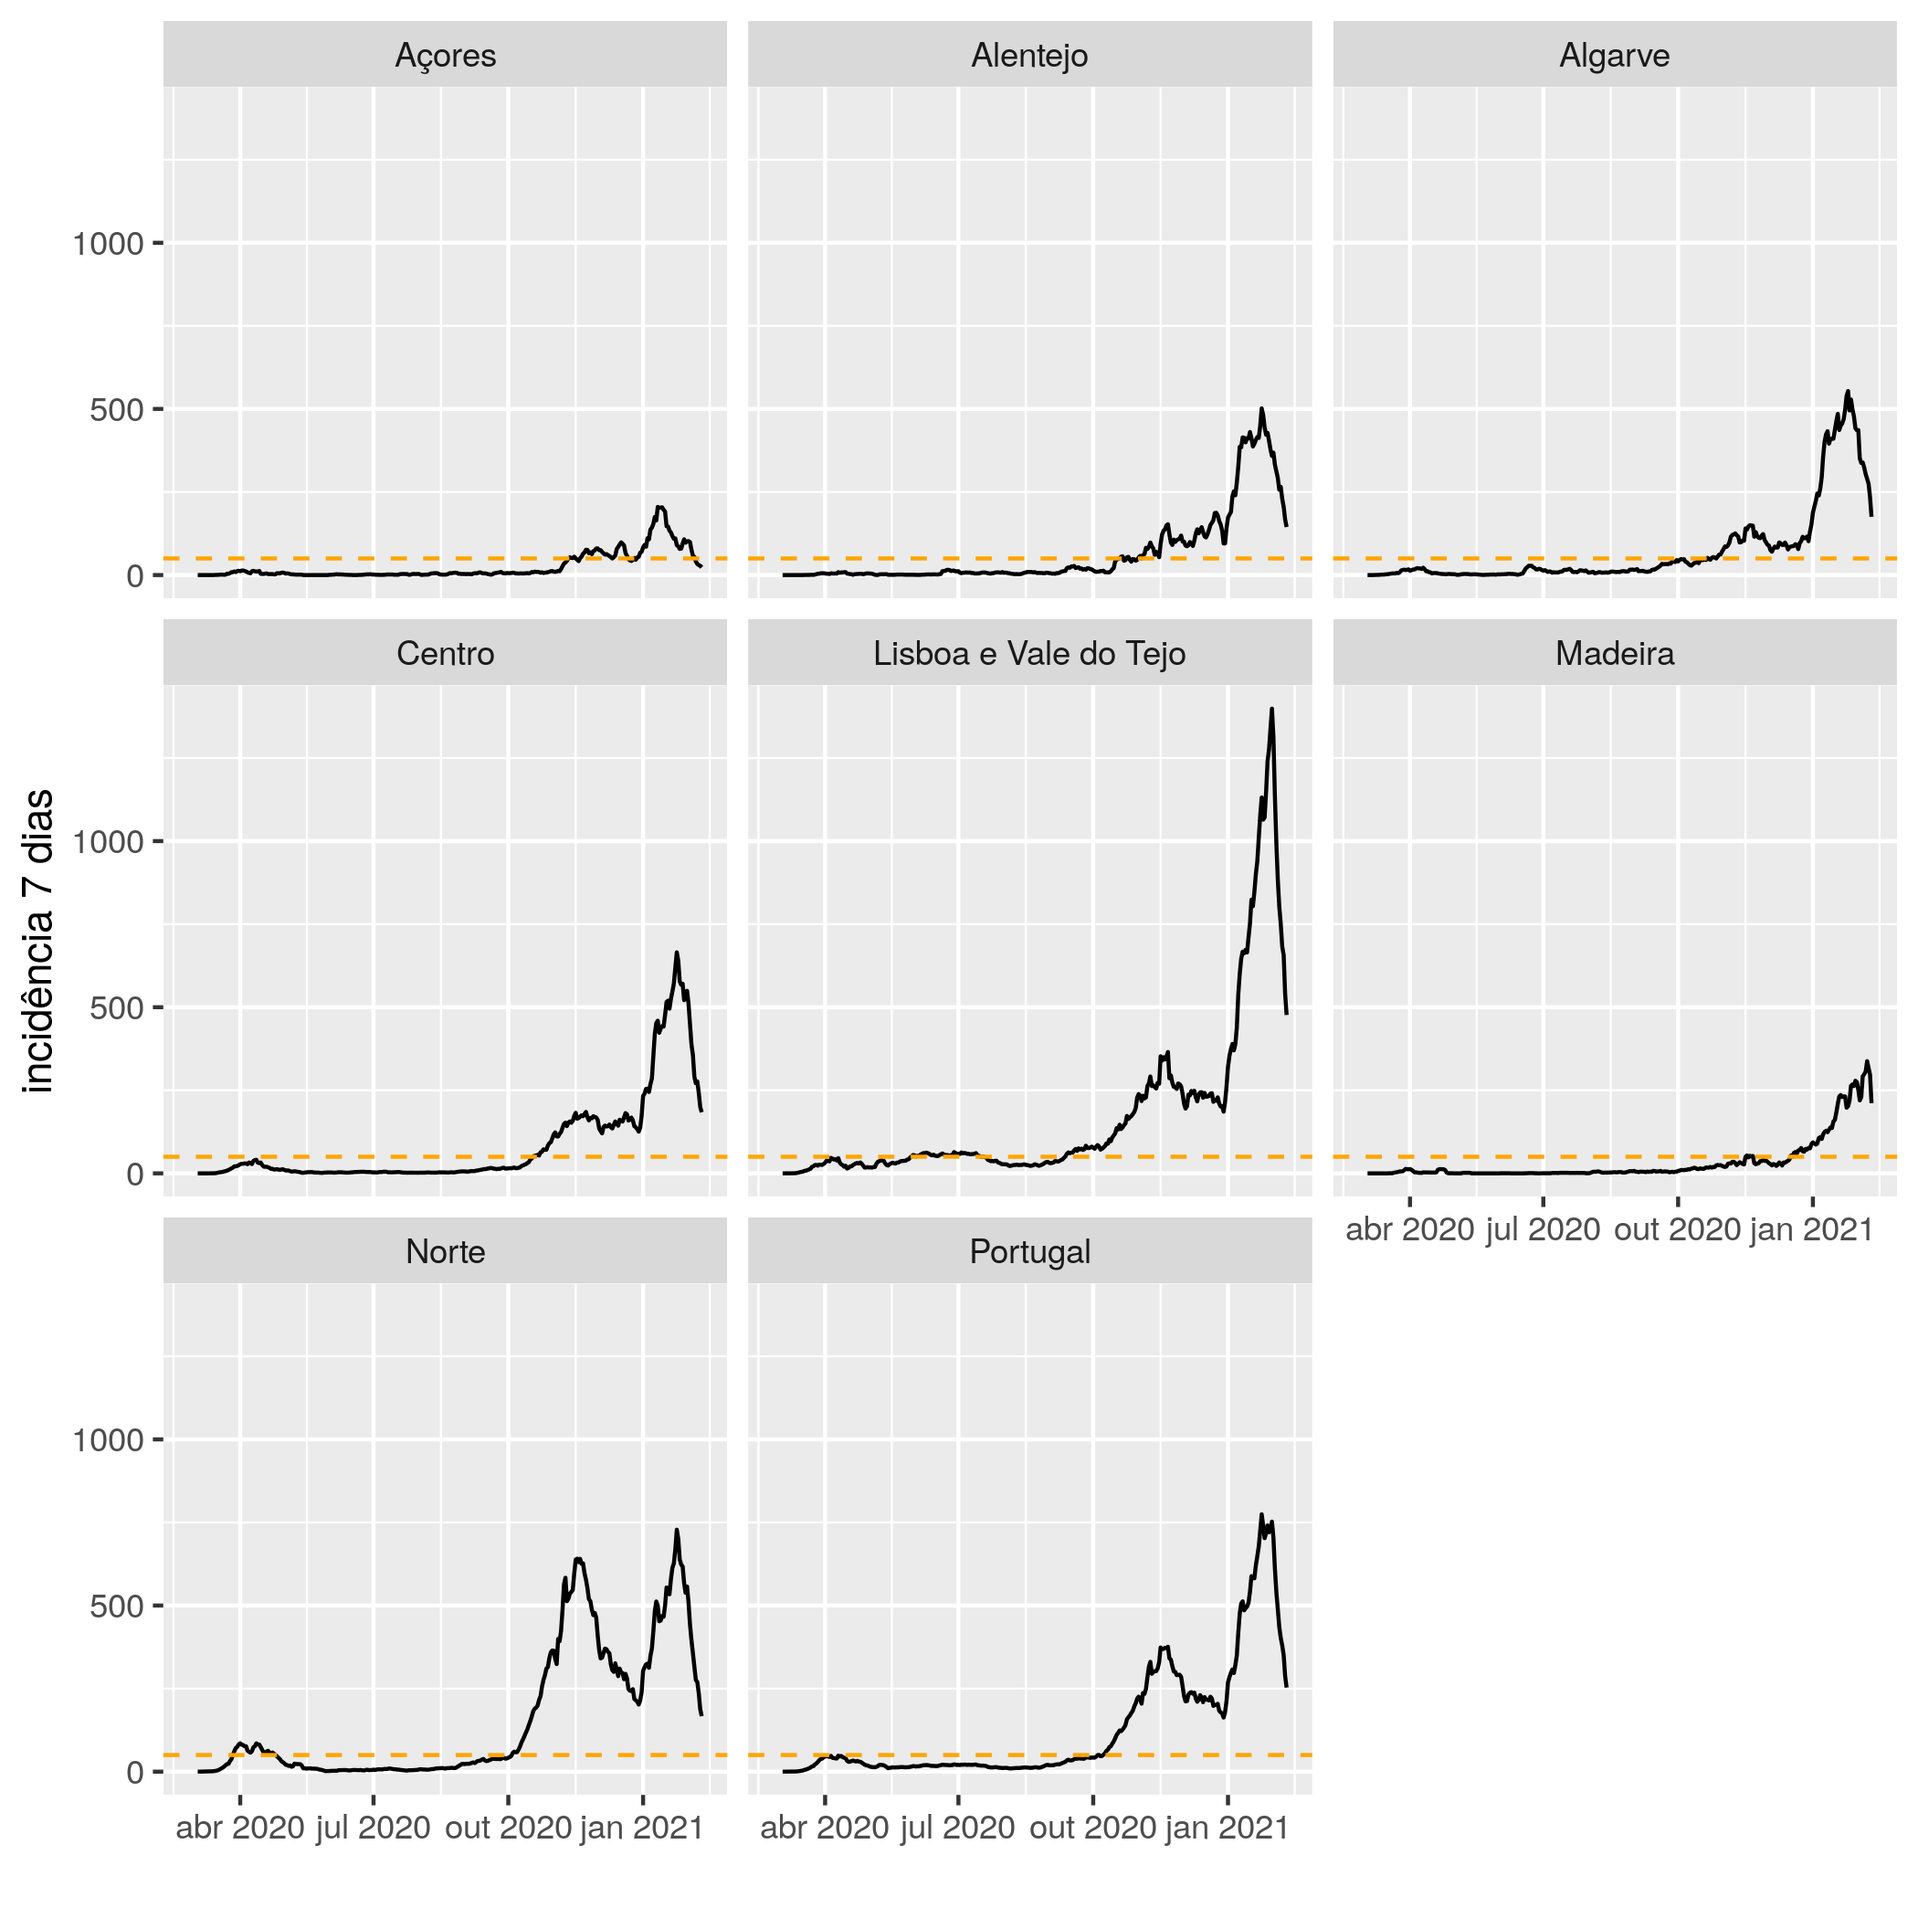
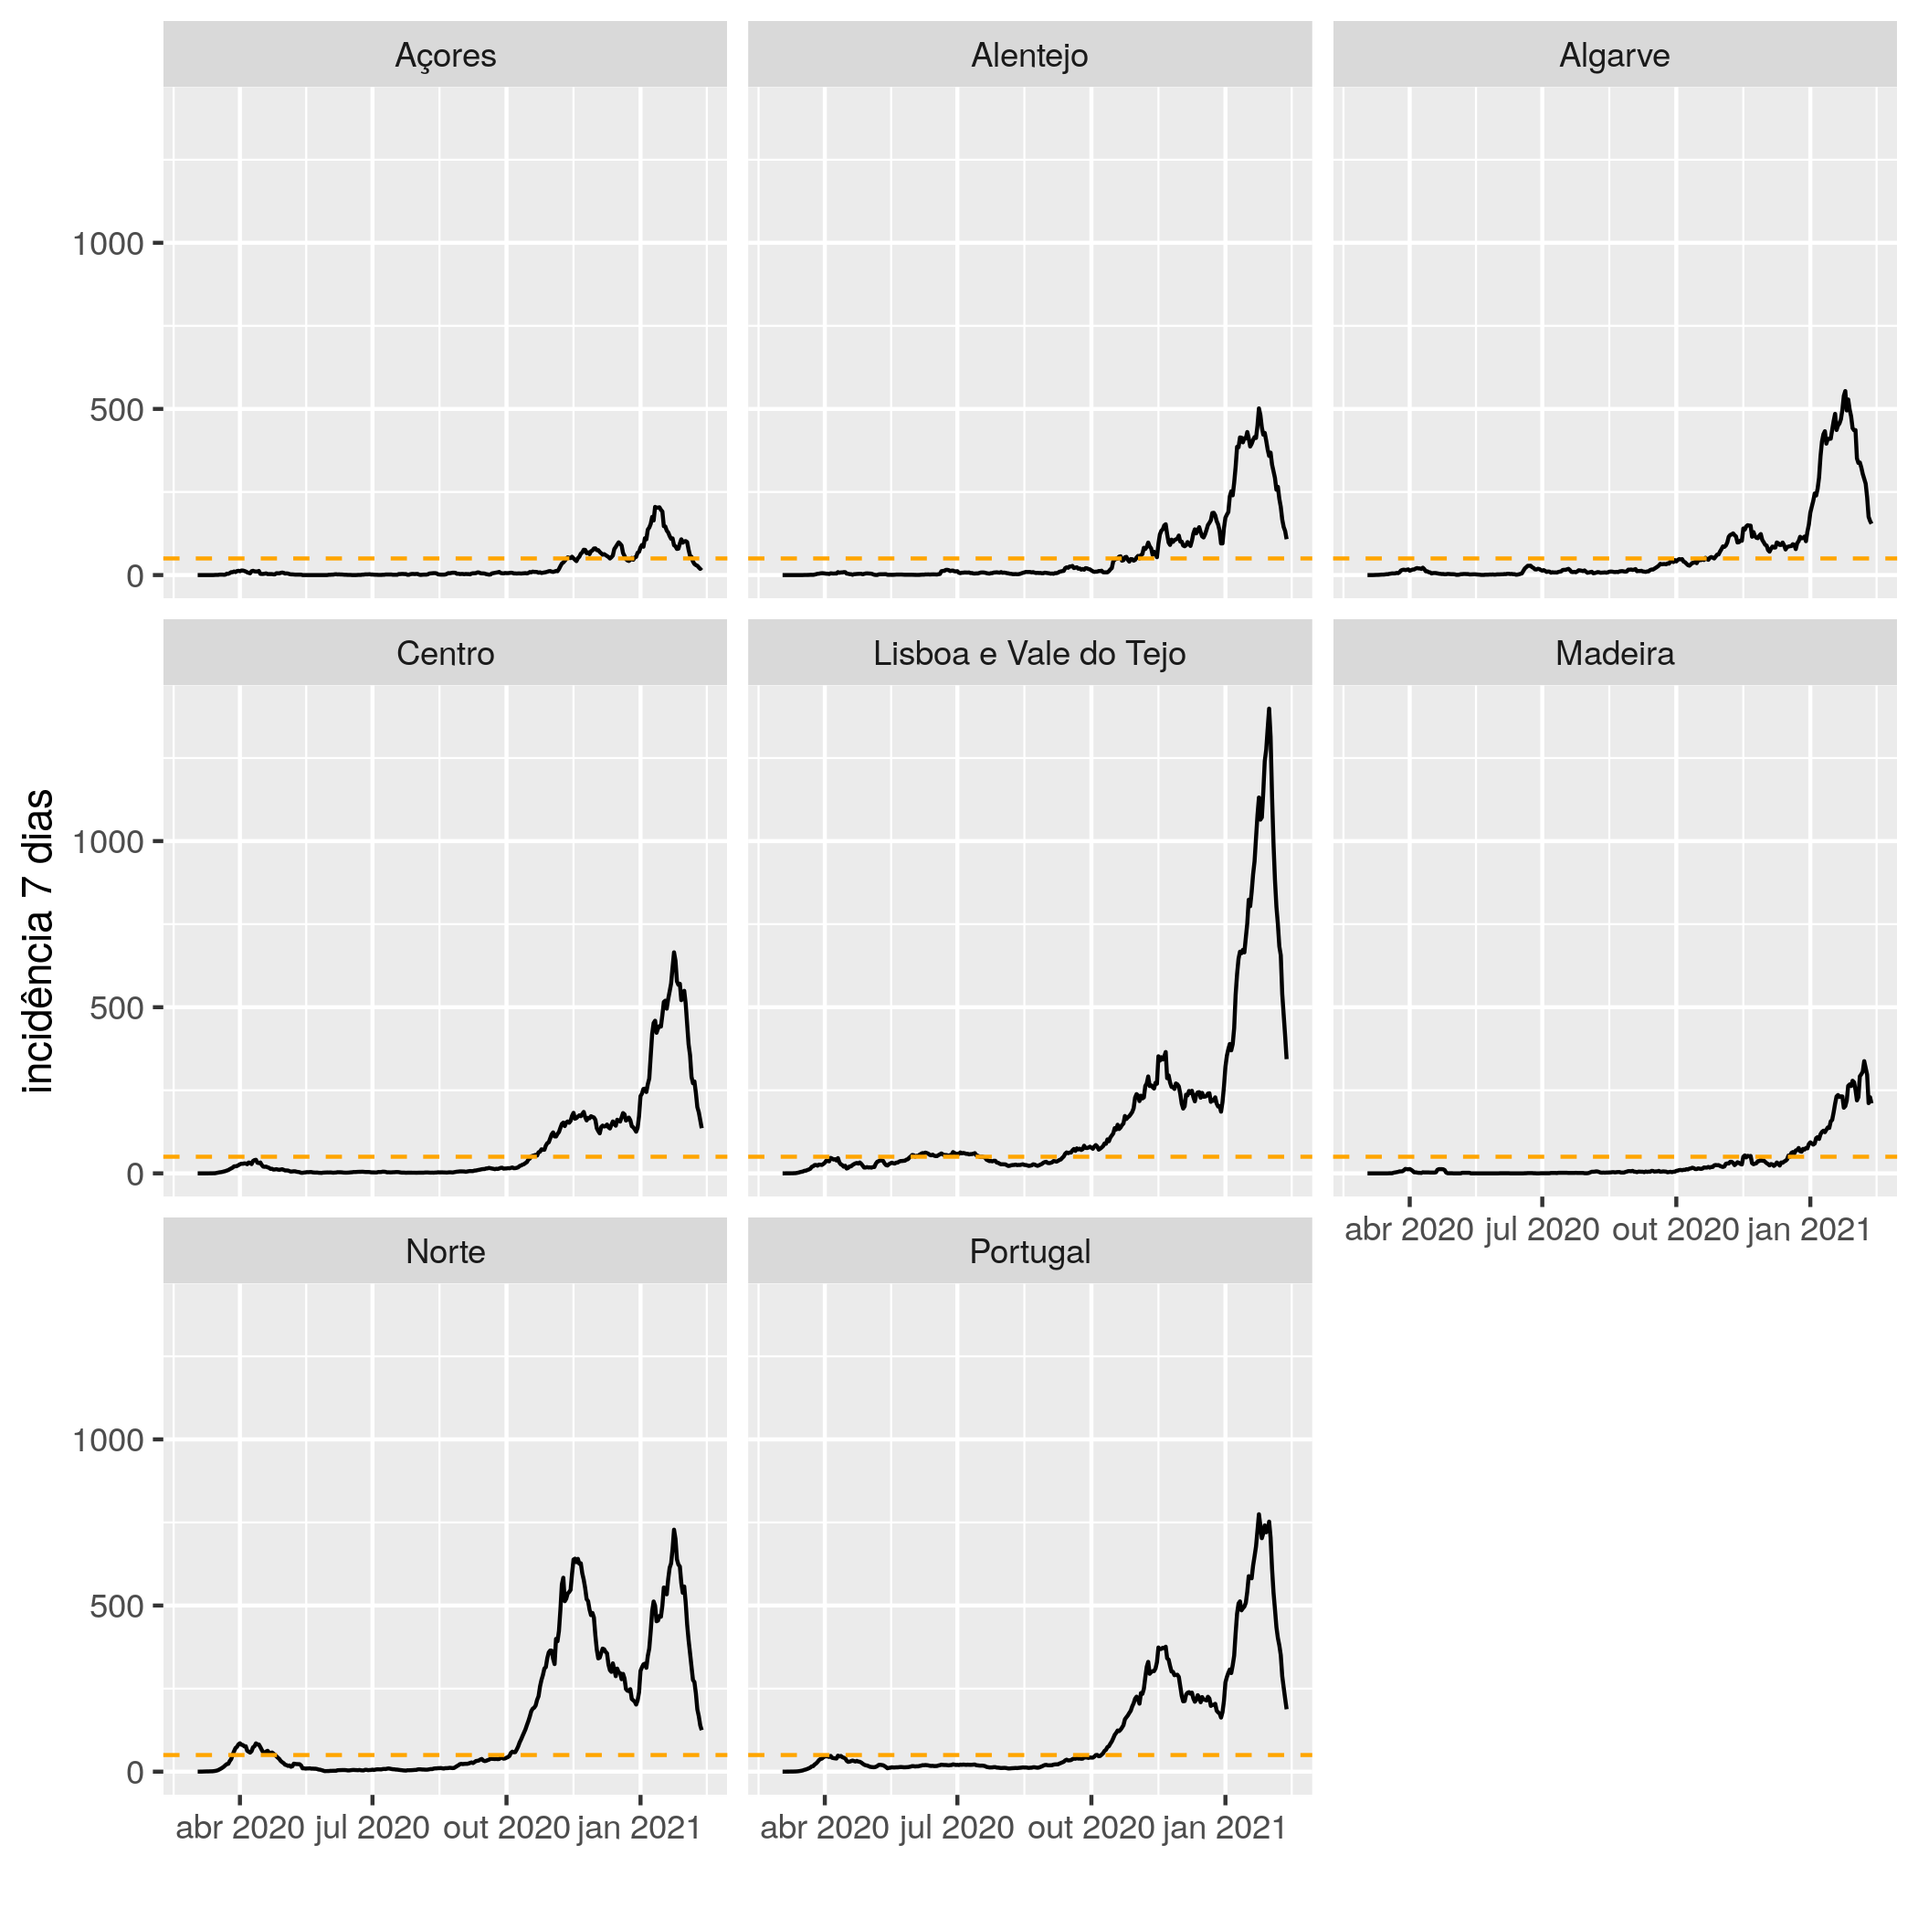
a descer!

diff --git a/README.md b/README.md
@@ -1,7 +1,7 @@
 # Contexto
 A incidência por 100000 habitantes em 7 dias é o valor de referência para decretar regiões de risco pelas autoridades de saúde alemãs (valor charneira é 50). Gráficos atualizados diariamente. Para ajudar quem quer viajar para a Alemanha ou vir passar férias a Portugal.
 
-Dados mais recentes de 2021-02-10.
+Dados mais recentes de 2021-02-12.
 
 # Incidência por 100000 habitantes em 7 dias
 ## Últimos 30 dias
